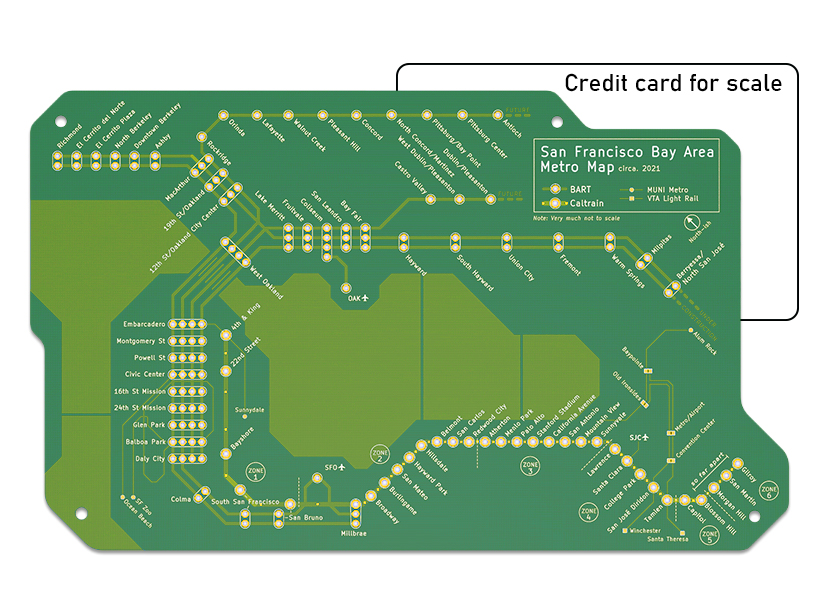
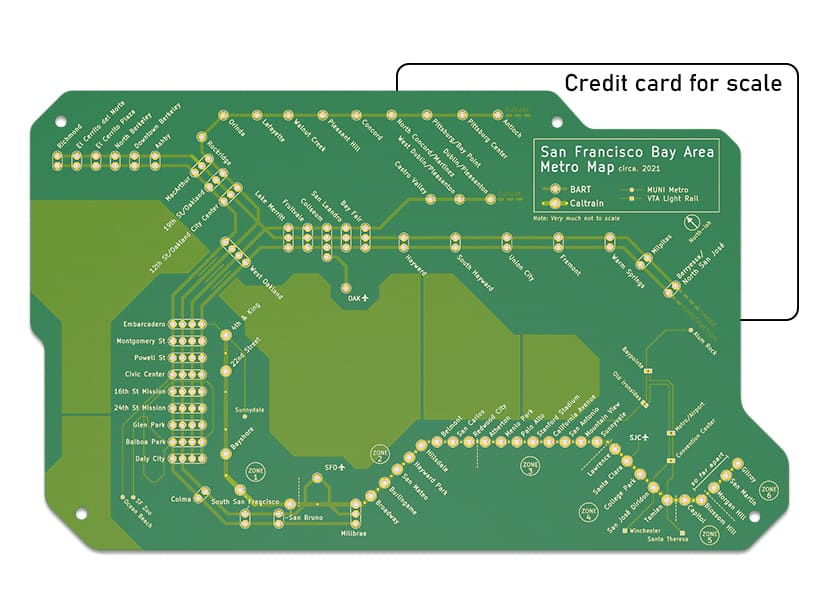
Optimised images

diff --git a/site/metro/index.html b/site/metro/index.html
@@ -104,6 +104,10 @@
         color: #FFFFFF;
         opacity: 1;
       }
+
+      .wow {
+        visibility: hidden;
+      }
     </style>
   </head>
   <body>
